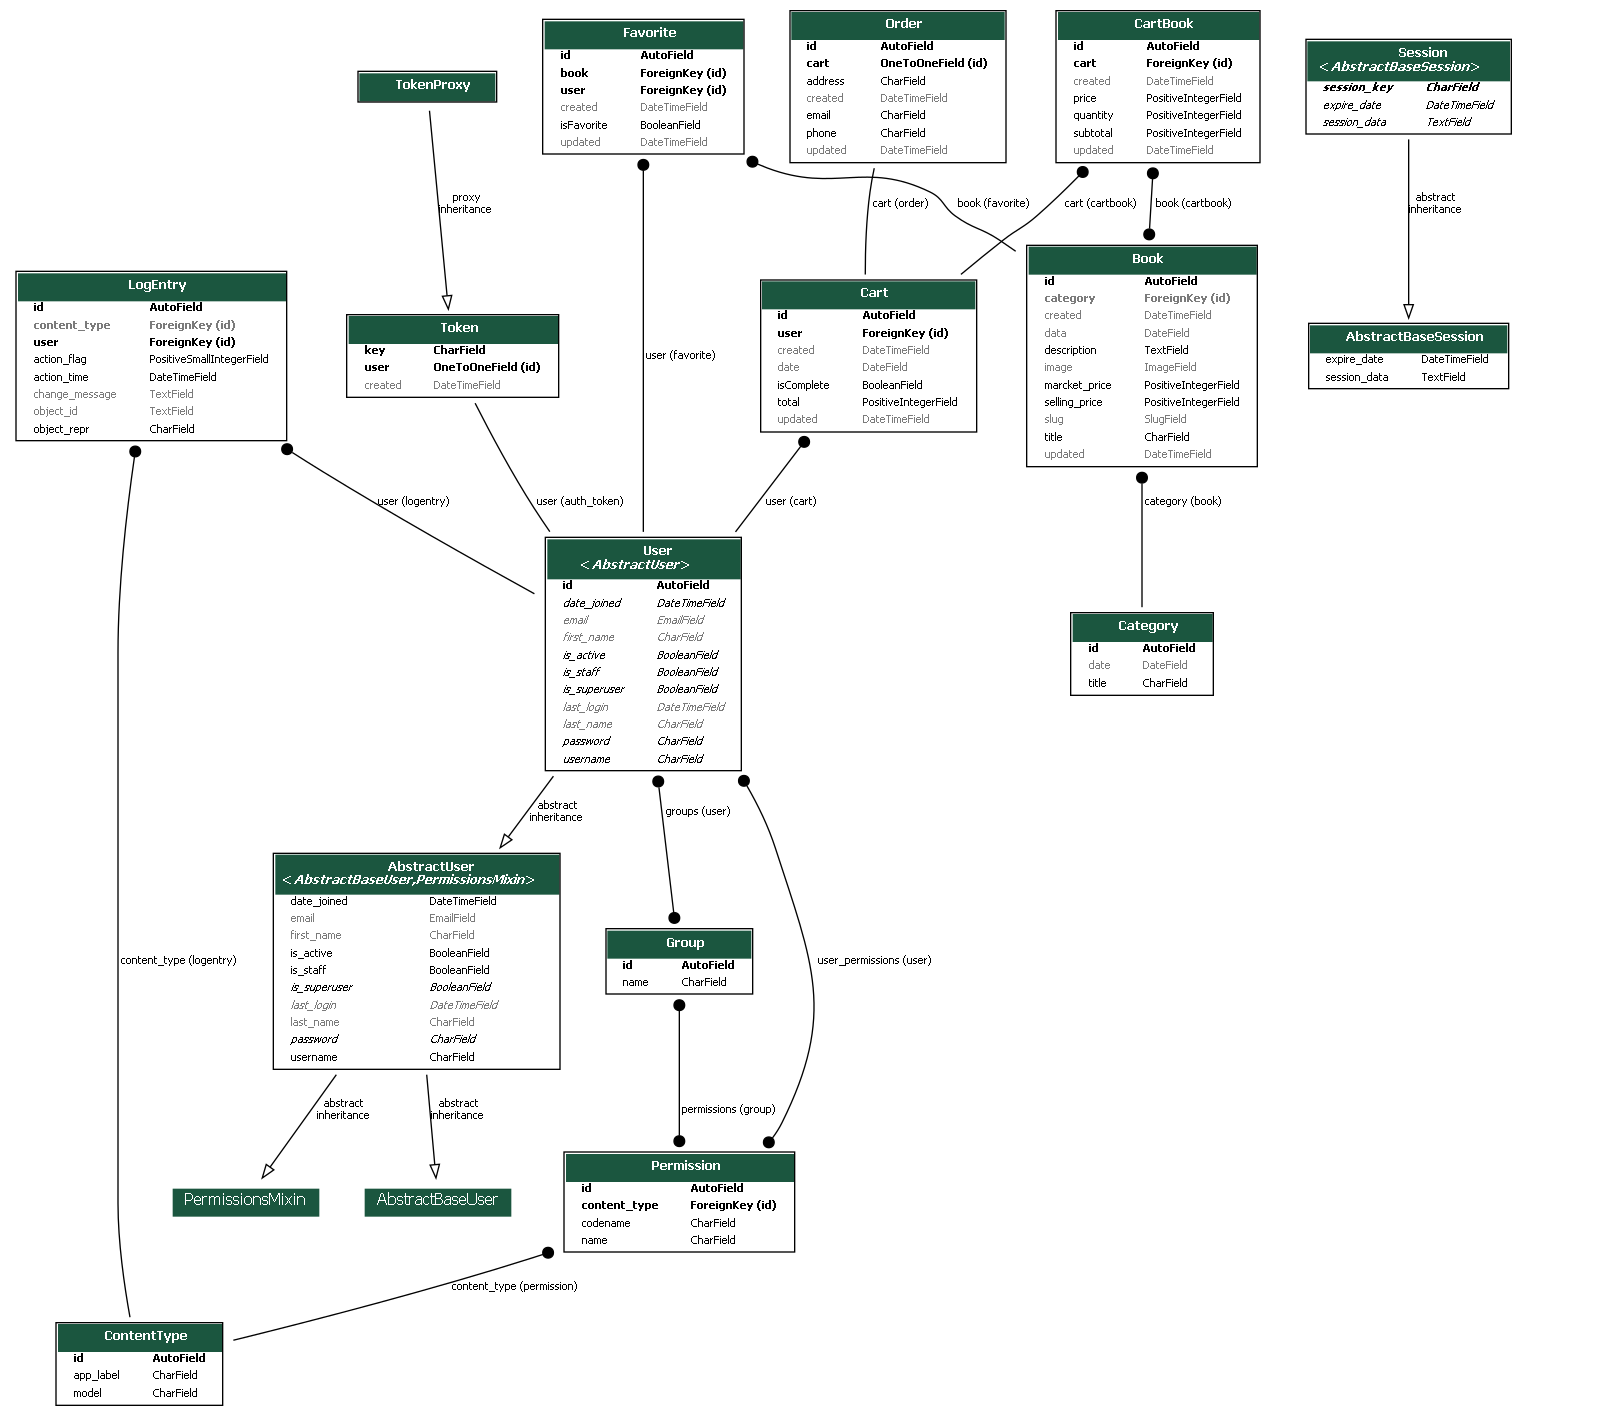
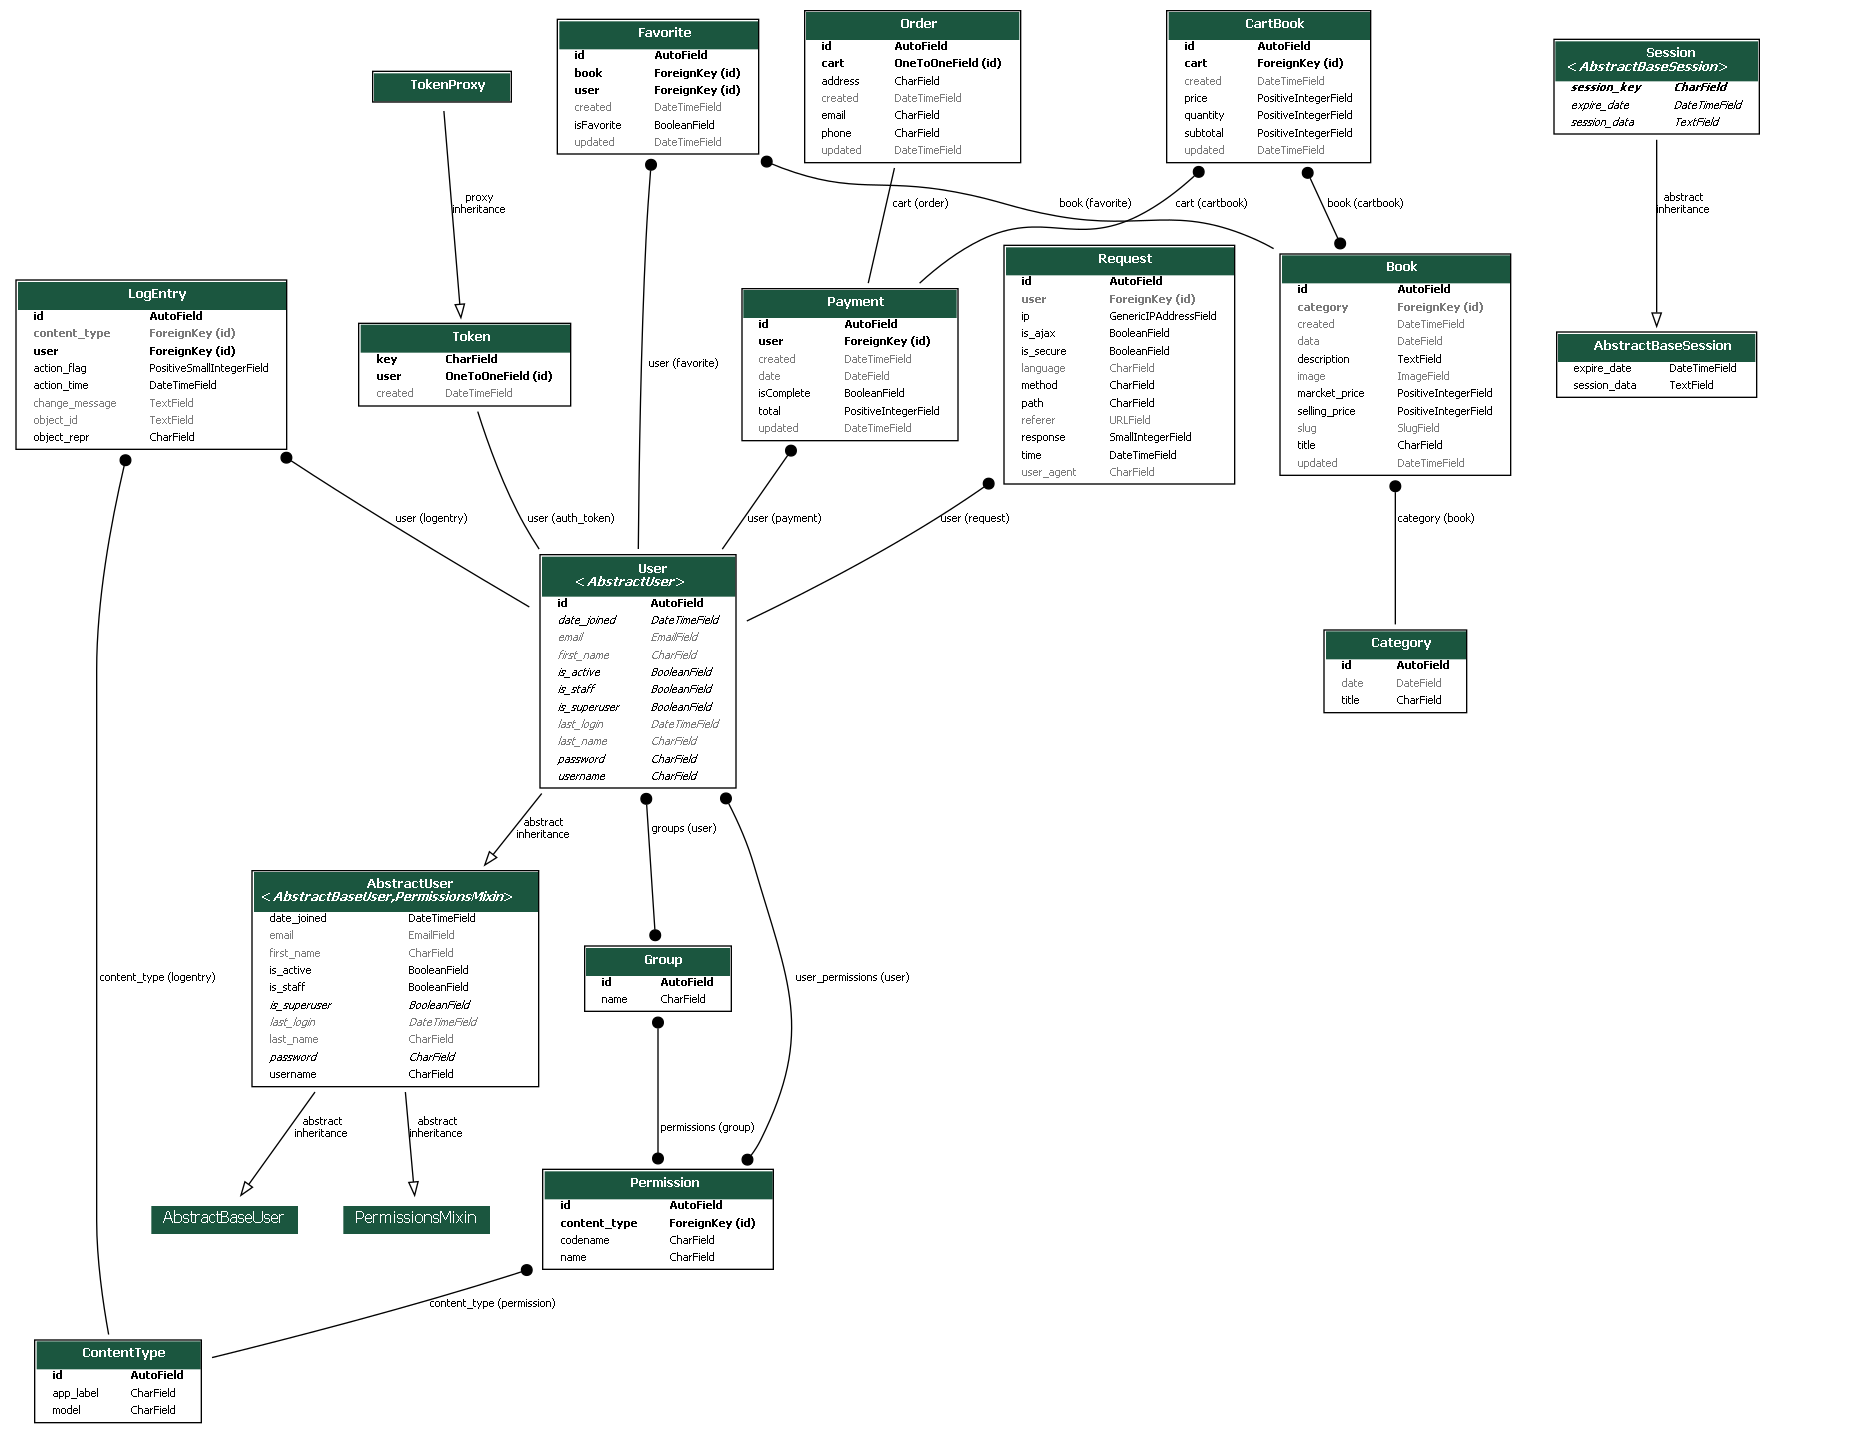
Payment

diff --git a/shop/views.py b/shop/views.py
@@ -71,7 +71,7 @@ class CartView(APIView):
     def get(self, request):
         user = request.user
         try:
-            cart_obj = Cart.objects.filter(user=user).filter(isComplit=False)
+            cart_obj = Payment.objects.filter(user=user).filter(isComplit=False)
             data = []
             cart_serializer = CartSerializers(cart_obj, many=True)
             for cart in cart_serializer.data:
@@ -108,7 +108,7 @@ class AddToCart(APIView):
         book_id = request.data['id']
         book_obj = Book.objects.get(id=book_id)
         # print(book_obj, "book_obj")
-        cart_cart = Cart.objects.filter(
+        cart_cart = Payment.objects.filter(
             user=request.user).filter(isComplit=False).first()
         cart_book_obj = CartBook.objects.filter(
             book__id=book_id).first()
@@ -139,9 +139,9 @@ class AddToCart(APIView):
                     cart_cart.total += book_obj.selling_price
                     cart_cart.save()
             else:
-                Cart.objects.create(user=request.user,
+                Payment.objects.create(user=request.user,
                                     total=0, isComplit=False)
-                new_cart = Cart.objects.filter(
+                new_cart = Payment.objects.filter(
                     user=request.user).filter(isComplit=False).first()
                 cart_book_new = CartBook.objects.create(
                     cart=new_cart,
@@ -168,7 +168,7 @@ class DelateCarBook(APIView):
         cart_book_id = request.data['id']
         try:
             cart_book_obj = CartBook.objects.get(id=cart_book_id)
-            cart_cart = Cart.objects.filter(
+            cart_cart = Payment.objects.filter(
                 user=request.user).filter(isComplit=False).first()
             cart_cart.total -= cart_book_obj.subtotal
             cart_book_obj.delete()
@@ -186,7 +186,7 @@ class DelateCart(APIView):
     def post(self, request):
         cart_id = request.data['id']
         try:
-            cart_obj = Cart.objects.get(id=cart_id)
+            cart_obj = Payment.objects.get(id=cart_id)
             cart_obj.delete()
             response_msg = {'error': False}
         except:
@@ -205,7 +205,7 @@ class OrderCreate(APIView):
             address = data['address']
             email = data['email']
             phone = data['phone']
-            cart_obj = Cart.objects.get(id=cart_id)
+            cart_obj = Payment.objects.get(id=cart_id)
             cart_obj.isComplit = True
             cart_obj.save()
             Order.objects.create(

diff --git a/shop/models.py b/shop/models.py
@@ -59,7 +59,7 @@ class Favorite(models.Model):
 
 
 
-class Cart(models.Model):
+class Payment(models.Model):
     user = models.ForeignKey(User, on_delete=models.CASCADE)
     total = models.PositiveIntegerField()
     isComplete = models.BooleanField(default=False)
@@ -71,8 +71,9 @@ class Cart(models.Model):
         return f"User={self.user.username}|ISComplete={self.isComplete}"
 
 
+
 class CartBook(models.Model):
-    cart = models.ForeignKey(Cart, on_delete=models.CASCADE)
+    cart = models.ForeignKey(Payment, on_delete=models.CASCADE)
     book = models.ManyToManyField(Book)
     price = models.PositiveIntegerField()
     quantity = models.PositiveIntegerField()
@@ -85,7 +86,7 @@ class CartBook(models.Model):
 
 
 class Order(models.Model):
-    cart = models.OneToOneField(Cart, on_delete=models.CASCADE)
+    cart = models.OneToOneField(Payment, on_delete=models.CASCADE)
     email = models.CharField(max_length=150)
     phone = models.CharField(max_length=13)
     address = models.CharField(max_length=200)

diff --git a/shop/migrations/0003_rename_cart_payment.py b/shop/migrations/0003_rename_cart_payment.py
@@ -1,0 +1,19 @@
+# Generated by Django 4.1.3 on 2022-12-15 22:50
+
+from django.conf import settings
+from django.db import migrations
+
+
+class Migration(migrations.Migration):
+
+    dependencies = [
+        migrations.swappable_dependency(settings.AUTH_USER_MODEL),
+        ('shop', '0002_alter_favorite_options_and_more'),
+    ]
+
+    operations = [
+        migrations.RenameModel(
+            old_name='Cart',
+            new_name='Payment',
+        ),
+    ]

diff --git a/shop/admin.py b/shop/admin.py
@@ -1,11 +1,11 @@
-from shop.models import Book,Category,Favorite,Cart,CartBook,Order
+from shop.models import *
 from django.contrib import admin
 
 # Register your models here.
 admin.site.register(Book)
 admin.site.register(Category)
 admin.site.register(Favorite)
-admin.site.register(Cart)
+admin.site.register(Payment)
 admin.site.register(CartBook)
 admin.site.register(Order)
 

diff --git a/shop/serializers.py b/shop/serializers.py
@@ -11,7 +11,7 @@ class BookSerializer(serializers.ModelSerializer):
 
 class CartSerializers(serializers.ModelSerializer):
     class Meta:
-        model = Cart
+        model = Payment
         fields = "__all__"
 
 
